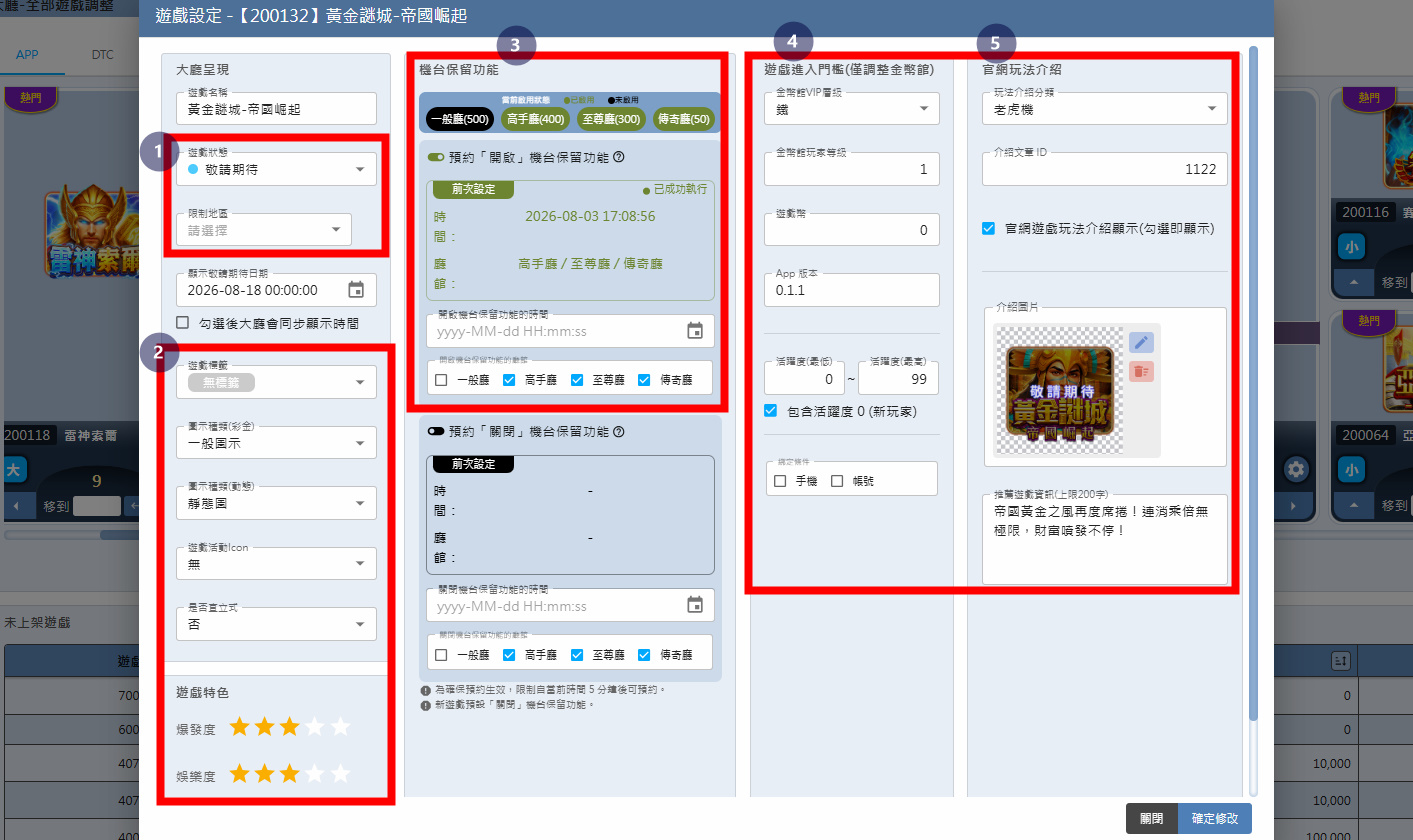
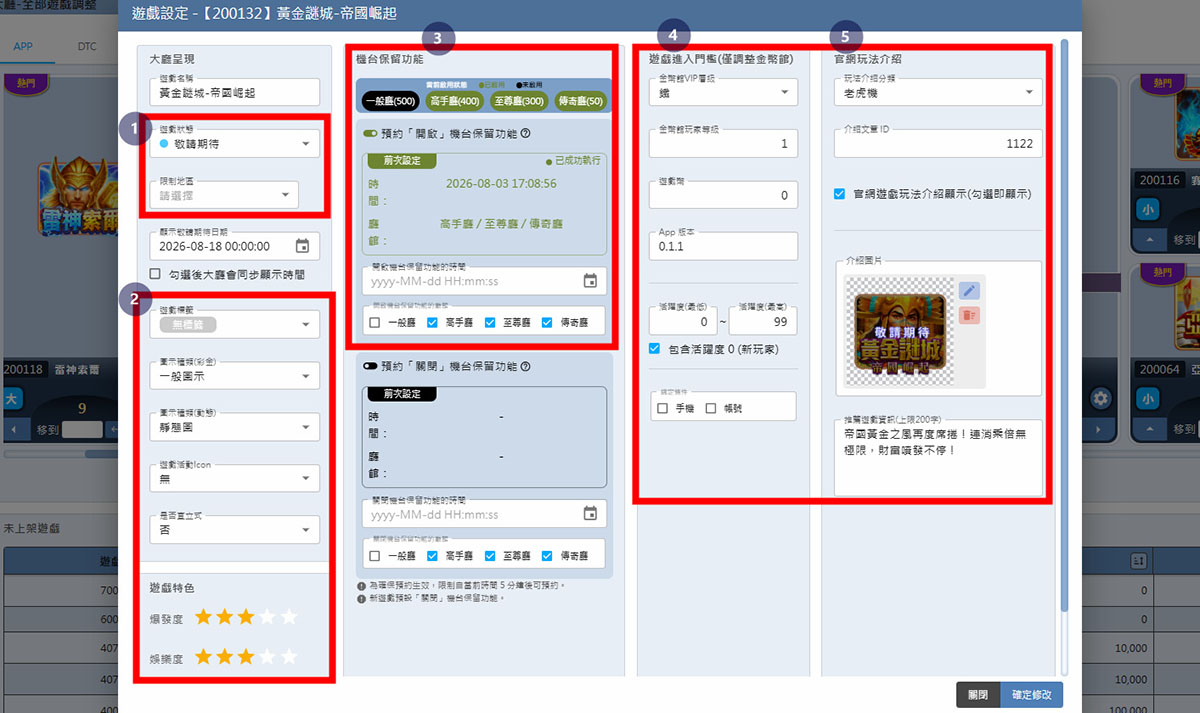
新增友善遊戲文件（申請流程、準備文件、示意圖），遊戲上線SOP拉出大廳版面設定獨立段落，並補充競品指南/遊戲調整流程細節

diff --git a/overrides/main.html b/overrides/main.html
@@ -228,11 +228,11 @@
     // 依網址路徑判斷這頁屬於首頁哪個大分類（跟 mkdocs.yml 的 nav 分類對應）
     function getPageCategory(){
       var path = decodeURIComponent(location.pathname);
+      if(/\/(BUG|友善遊戲)/.test(path)) return '其他文件教學';
       if(/\/遊戲/.test(path)) return '遊戲類教學';
       if(/\/(營運|換皮|抽獎|直播|其他抽獎|代言人)/.test(path)) return '營運活動教學';
       if(/\/競品/.test(path)) return '競品指南';
       if(/\/(文件格式|git)/i.test(path)) return 'Git使用教學';
-      if(/\/BUG/.test(path)) return '其他文件教學';
       return '其他';
     }
 

diff --git a/ARCHITECTURE.md b/ARCHITECTURE.md
@@ -41,7 +41,7 @@ sop-docs/
 │   ├── 競品優化_使用指南.md／競品優化_管理者指南.md（有對應的 .html，見下方）
 │   ├── Git使用教學_索引.md／Git版本推送與衝突處理.md／如何使用GIT.md    # Git使用教學分類（第 4 個大分類），如何使用GIT.md 內容目前是 🟡 待補充 骨架
 │   ├── 文件格式教學_索引.md      # 併入 Git使用教學分類，給人看的寫作規則版，跟這份 ARCHITECTURE.md 內容對應
-│   ├── BUG回報方式.md            # 其他文件教學分類（第 5 個大分類），目前只有這一頁，nav 是扁平單一條目（不是巢狀子選單）
+│   ├── BUG回報方式.md／友善遊戲.md  # 其他文件教學分類（第 5 個大分類），nav 巢狀子選單
 │   ├── files/                    # 可下載的檔案（例如 .pptx 範本），跟 images/ 平行的慣例，用 `[文字](files/檔名)` 引用，MkDocs 會原封不動複製過去
 │   ├── stylesheets/
 │   │   └── extra.css             # 全站自訂樣式（見下方詳解）
@@ -117,7 +117,7 @@ Material 主題的 override 檔案，`{% block scripts %}` 裡塞了好幾個獨
 
 - 資料存在瀏覽器的 `localStorage['sop_favorites']`，格式是 `[{href, text, category}, ...]`，**每個訪客的瀏覽器各自獨立**，換裝置/清快取會重置回預設值
 - `DEFAULT_FAVORITES`：新訪客第一次進站看到的預設收藏，目前是 4 個（包你發更新計畫表、營運活動文件表、抽獎券規劃表、營運自動化文件表），網址用 `{{ config.extra.links.xxx }}` 從 `mkdocs.yml` 的集中清單拉，不是寫死
-- `getPageCategory()`：依網址路徑判斷這頁屬於「遊戲類教學／營運活動教學／競品指南／Git使用教學／其他文件教學／其他」哪個分類（正則比對路徑裡有沒有「遊戲」「營運/換皮/抽獎/直播/代言人」「競品」「文件格式/git」（不分大小寫，因為有的頁面檔名是 `Git...`、有的是全大寫 `如何使用GIT`）「BUG」），**加星星時會自動記錄當下頁面屬於哪個分類**
+- `getPageCategory()`：依網址路徑判斷這頁屬於「遊戲類教學／營運活動教學／競品指南／Git使用教學／其他文件教學／其他」哪個分類（正則比對路徑裡有沒有「遊戲」「營運/換皮/抽獎/直播/代言人」「競品」「文件格式/git」（不分大小寫，因為有的頁面檔名是 `Git...`、有的是全大寫 `如何使用GIT`）「BUG」），**加星星時會自動記錄當下頁面屬於哪個分類**。**判斷順序有陷阱**：`BUG`／`友善遊戲` 這類「其他文件教學」頁面的檢查必須排在「遊戲」的通用檢查**之前**，不然像 `友善遊戲.md` 這種檔名裡剛好含「遊戲」二字的頁面，會先被籠統的 `/\/遊戲/` 規則誤判成「遊戲類教學」——新增分類關鍵字時要注意跟既有規則會不會互相包含
 - 首頁 `index.md` 有個 `<div id="my-favorites-list">` 容器，`renderFavorites()` 會把收藏依分類分組渲染成一區一區，顏色跟著分類走
 - 舊資料相容：`loadFavorites()` 讀到沒有 `category` 欄位的項目，會先試著用網址比對 `DEFAULT_FAVORITES` 補回分類，比對不到才歸到「其他」
 

diff --git a/docs/友善遊戲.md b/docs/友善遊戲.md
@@ -1,0 +1,23 @@
+<p style="font-size:2em; font-weight:bold; margin:20px 0 8px 0; display:flex; align-items:center; gap:8px;"><img src="https://media3.giphy.com/media/KOrIxsEQaBJcHgiiqL/giphy.gif" width="50"> 友善遊戲 <img src="https://media3.giphy.com/media/KOrIxsEQaBJcHgiiqL/giphy.gif" width="50"></p>
+
+> 版本：v1.0　撰寫日期：2026-08-17　BY yayihuang-bit
+> ⚠ 版本、撰寫日期、BY 都需要手動填寫更新
+
+## 說明
+
+不定期會報名台灣政府認定的「友善遊戲」評選指標，由電腦公會安排時間，屆時會寄信通知主管們（[過往新聞參考](https://www.yile.com.tw/%E5%8C%85%E4%BD%A0%E7%99%BC%E5%A8%9B%E6%A8%82%E5%9F%8E-%E7%8D%B2%E5%BE%97%E7%AC%AC%E4%B8%80%E5%B1%86%E3%80%8C%E5%8F%8B%E5%96%84%E9%81%8A%E6%88%B2%E7%92%B0%E5%A2%83%E6%8C%87%E6%A8%99%E3%80%8D%E8%AA%8D/)）。
+
+申請這件事情需要準備一些文件，因文件內會有加分資料，所以會找其他單位窗口拿。
+
+## 準備文件
+
+[文件彙整](https://drive.google.com/drive/u/0/folders/120oAvucpJTfgykkEHJXbRw1gN8NiyNb1)
+
+![準備文件清單示意圖](images/其他/友善遊戲 (1).png)
+
+- 公益類項目不知道有哪些，所以找管理部拿
+- 友善評選資料找 CRM 拿時，會有時間範圍（如下圖參考），需要請他們找指定時段內的資料
+
+自評表細項舉例（CRM 負責的部分）：
+
+![自評表細項示意圖](images/其他/友善遊戲 (2).png)

diff --git a/docs/遊戲上線SOP.md b/docs/遊戲上線SOP.md
@@ -73,6 +73,8 @@ graph TD
 
 ## 🟩 區塊二：遊戲上線設定（上線日）
 
+![遊戲設定面板示意圖](images/遊戲上線/遊戲開放 (1).jpg)
+
 <table style="width:100%; table-layout:fixed;">
 <thead><tr>
 <th style="width:18%">項目</th>
@@ -87,9 +89,16 @@ graph TD
 <tr><td>GameIcon</td><td class="wrap">開啟（只有敬請期待階段不開）</td></tr>
 <tr><td>爆發度、直橫設定</td><td class="wrap">查 <a href="{{ links.slot_game_list_doc }}" target="_blank">Slot Game List</a></td></tr>
 <tr><td>遊戲進入門檻</td><td class="wrap">VIP 層級看官網 VIP 表格（有時不準確，要留意）；活躍度看 Help</td></tr>
-<tr><td>大廳-首頁版面設定</td><td>新遊戲放到最左邊</td></tr>
 </tbody>
 </table>
+
+### 大廳-首頁版面設定
+
+新遊戲放到最左邊。
+
+🟡 此區看 mini 怎麼調整，待補
+
+![大廳-首頁版面設定示意圖](images/遊戲上線/遊戲開放 (2).jpg)
 
 ### 上線後追蹤
 

diff --git a/docs/競品指南.md b/docs/競品指南.md
@@ -89,6 +89,8 @@
 
 ## 四、時間軸與分工
 
+另有 LINE 群「CG競品救火隊」，用於競品相關討論
+
 每個月會有兩次企劃內部開會，分別針對：
 - **上個月月中～月底**的競品內容
 - **這個月月初～月中**的競品內容
@@ -103,7 +105,7 @@
 
 > 時間軸補充：
 > - 下個月的第1個周二 ＝ 討論本月營運簡報（下半月），以此循環。
-> - 月報會議若有意願參與，歡迎告知月報窗口 
+> - 月報會議若有意願參與，歡迎告知月報窗口
 
 ### 2026下半年度 負責分工
 
@@ -200,7 +202,7 @@
 - 公帳沒錢 
 - 因應活動、系統、遊戲限制 VIP 門檻
 
-在每個月20號前，找月報窗口 ( 目前找10 ) 統一儲值。
+<mark>**在每個月 20 號前，找月報窗口（目前找 10）統一儲值**</mark>
 > 若公帳內還有錢，平常也可以多掛著打，衝一下帳號等級。
 
 **2. 儲值流程：**

diff --git a/docs/index.md b/docs/index.md
@@ -184,4 +184,10 @@
 <a href="/sop-docs/BUG回報方式/" style="display:inline-block;background:#5b7c99;color:white;padding:10px 24px;border-radius:6px;text-decoration:none;font-weight:bold;margin-top:auto;">查看</a>
 </div>
 
+<div style="border:2px solid #5b7c99;border-radius:12px;padding:24px;background:#eef2f6;text-align:center;display:flex;flex-direction:column;">
+<h3 style="color:#5b7c99;margin:0 0 12px 0;">🌱 友善遊戲</h3>
+<p style="color:#555;font-size:15px;margin:0 0 auto 0;flex-grow:1;">申請台灣政府友善遊戲標章需要準備的文件清單</p>
+<a href="/sop-docs/友善遊戲/" style="display:inline-block;background:#5b7c99;color:white;padding:10px 24px;border-radius:6px;text-decoration:none;font-weight:bold;margin-top:auto;">查看</a>
+</div>
+
 </div>

diff --git a/docs/遊戲調整流程.md b/docs/遊戲調整流程.md
@@ -94,7 +94,7 @@
 遊戲關閉時間確認後，由企劃同步遊戲關閉資訊至各相關單位：
 
 - 維運：同步至 Slack [包你發-維護or更新]({{ links.ops_maintenance_slack }}) 群
-- 客服：同步至 LINE 群
+- 客服、CRM：同步至 LINE 群，CRM tag 億婷（避免維繫送的卡片是已經下架的遊戲）
 - 行銷／美術：同步至 LINE 群
 
 同步資訊至少包含：
